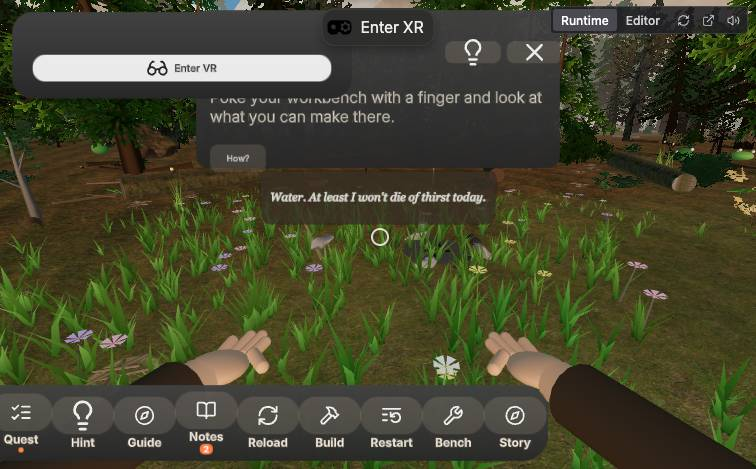
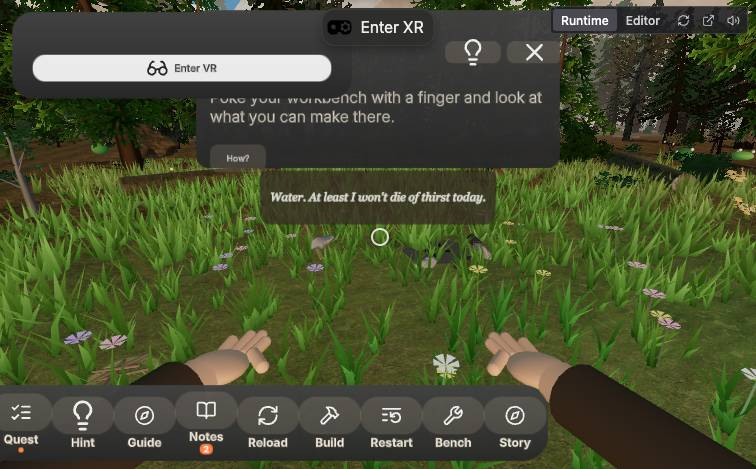
Polish 4.2: charcoal ash bed (unlit, soft edge, ember glow at the centre only); shots and perf

diff --git a/src/systems/build-system.ts b/src/systems/build-system.ts
@@ -64,7 +64,25 @@ const spotGlowMat = new MeshBasicMaterial({ color: 0xffb547, transparent: true, 
 const spotGlowGeo = new CircleGeometry(0.17, 18);
 /** Joints that are tied by hand with cord: a cooler ring than the set-down marks. */
 const lashMat = new MeshBasicMaterial({ color: 0x7fe8ff, transparent: true, opacity: 0.95 });
-const ashMat = new MeshLambertMaterial({ color: 0x4e4944 });
+/** Charcoal and ash: unlit dark grey-black with pale flecks, a soft edge into the scorched earth, and a faint ember glow only at the very centre. */
+const ashMat = new ShaderMaterial({
+  transparent: true,
+  depthWrite: false,
+  uniforms: {},
+  vertexShader: 'varying vec2 vUv; void main() { vUv = uv * 2.0 - 1.0; gl_Position = projectionMatrix * modelViewMatrix * vec4(position, 1.0); }',
+  fragmentShader: `varying vec2 vUv;
+    float h(vec2 p) { return fract(sin(dot(p, vec2(127.1, 311.7))) * 43758.5453); }
+    float n(vec2 p) { vec2 i = floor(p), f = fract(p); vec2 u = f * f * (3.0 - 2.0 * f); return mix(mix(h(i), h(i + vec2(1.0, 0.0)), u.x), mix(h(i + vec2(0.0, 1.0)), h(i + vec2(1.0, 1.0)), u.x), u.y); }
+    void main() {
+      float r = length(vUv) + (n(vUv * 6.0) - 0.5) * 0.3;
+      float a = smoothstep(1.0, 0.45, r);
+      float fleck = step(0.78, n(vUv * 17.0)) * 0.5 + n(vUv * 5.0) * 0.5;
+      vec3 c = mix(vec3(0.05, 0.045, 0.04), vec3(0.2, 0.19, 0.18), fleck * (0.35 + 0.65 * smoothstep(0.1, 0.7, r)));
+      float ember = smoothstep(0.34, 0.0, length(vUv)) * (0.35 + 0.65 * n(vUv * 9.0 + 3.0));
+      c += vec3(0.55, 0.17, 0.03) * ember * 0.5;
+      gl_FragColor = vec4(c, a);
+    }`,
+});
 /** Soot: near-black at the centre, fading to nothing at the edge, with a ragged outline. */
 const scorchMat = new ShaderMaterial({
   transparent: true,
@@ -395,7 +413,7 @@ export class BuildSystem extends createSystem({
       scorch.rotation.x = -Math.PI / 2;
       scorch.position.y = 0.013;
       root.add(scorch);
-      const ash = new Mesh(new CircleGeometry(0.3, 24), ashMat);
+      const ash = new Mesh(new CircleGeometry(0.4, 28), ashMat);
       ash.rotation.x = -Math.PI / 2;
       ash.position.y = 0.016;
       root.add(ash);

diff --git a/docs/PERF_REPORT.md b/docs/PERF_REPORT.md
@@ -247,3 +247,11 @@ Campfire (static meshes only for a finished pit: soot decal, ash bed, 7 extra ba
 (no geometry), noon contrast (sun intensity x1.22 by day, hemisphere fill x0.82, sun slightly warmer), birch-style aspen bark, a soft halo instead of a flat disc for pickup glows,
 fewer and smaller moss cushions (260 to 70). Standard viewpoint with the story camp standing (workbench, fire pit): 212 draw calls, **225,536 triangles**, CPU 4.96 ms (budget 240k).
 Playtests: `story-check.mjs` (workbench complete, fire lit, no errors) and `tutorial-check.mjs` pass; `npm test` 679 pass; production build passes.
+
+### Polish pass 4 (meadow and ash)
+
+The meadow is now two instanced layers: the near tufts (5 bent blades, 12 triangles, at most 1,000, out to about 6 m) and a mid-distance layer of low dense clumps (9 single-triangle blades each,
+at most 1,900, from about 4 m to 15 m, shrinking to nothing over the last 4 m), laid out on broader patches (density threshold lowered, patches about 6 m across) in four colour families including dry
+yellow-green; the ground shader's meadow blend now starts at 1 m and adds dry patches. Twigs and leaf litter trimmed to 300 and 700 to pay for it. The ash is an unlit shader (charcoal, pale flecks,
+soft edge, faint ember glow at the centre). Standard viewpoint with the camp standing: 213 draw calls, **234,012 triangles**, CPU 4.57 ms (budget 240k). Typecheck, 679 tests, production build,
+`story-check.mjs` (workbench complete, fire lit, no errors) and `tutorial-check.mjs` pass.
